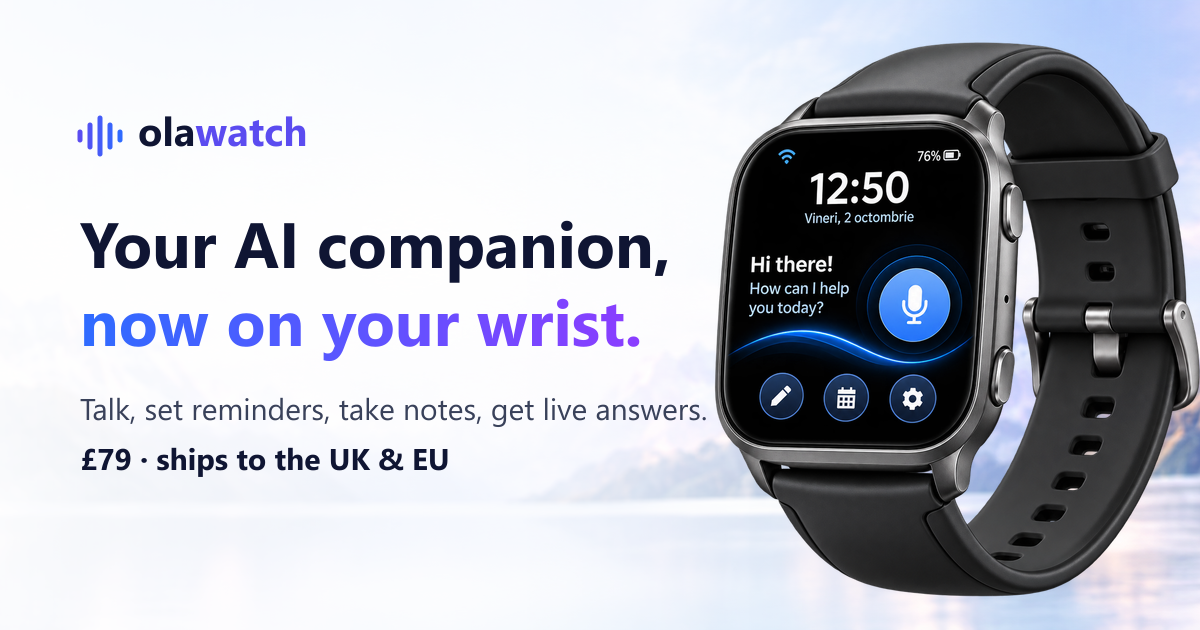
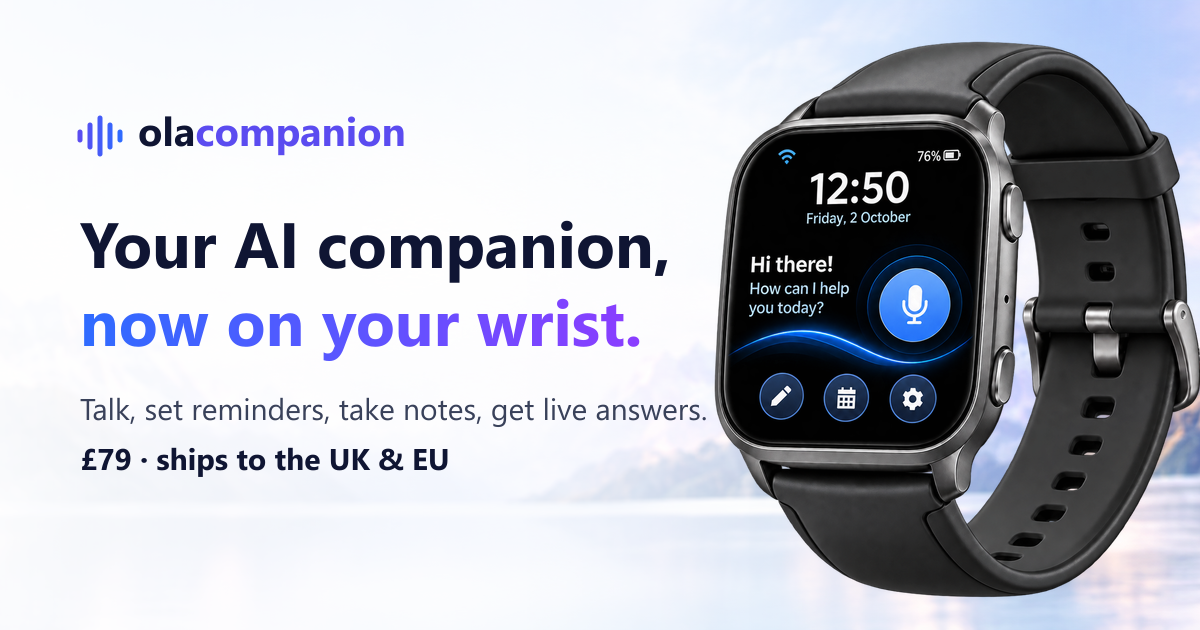
Site: rename to olacompanion (olacompanion.com), automatic currency, mobile layout fixes
- olawatch -> olacompanion everywhere, domain www/app.olacompanion.com, new share image
- Currency picked automatically (GBP in the UK, EUR elsewhere); the £/€ toggle is removed
- Hero title sized to fit two lines on phones; balanced wrapping for headings
- Mobile menu overlays the page; legal pages get a left drawer on phones
- "No app to install" becomes a round blue badge next to the watch; equal-width hero buttons
- Larger watch in the "Wear It" step on phones

diff --git a/site/src/lib/currency.ts b/site/src/lib/currency.ts
@@ -1,77 +1,44 @@
-// Client-side currency: GBP in the UK, EUR in the rest of Europe (by time zone, then browser language). Shared by the price islands.
+// Client-side currency, chosen automatically (there is no switch): GBP for visitors in the UK, EUR for
+// everyone else. By the device's time zone, then the browser language's region. Shared by the price islands.
 export type Cur = "GBP" | "EUR";
 
-const KEY = "buddyai.currency";
-const EU_REGIONS = new Set(
-  "AT BE BG HR CY CZ DK EE FI FR DE GR HU IE IT LV LT LU MT NL PL PT RO SK SI ES SE".split(" "),
-);
-const EU_LANGS = new Set("de fr it es nl fi el sv da pl cs sk sl hu ro bg hr et lv lt mt ga lb".split(" "));
+// The UK and the Crown dependencies pay in pounds.
+const UK_ZONES = new Set("Europe/London Europe/Belfast Europe/Isle_of_Man Europe/Jersey Europe/Guernsey GB GB-Eire".split(" "));
 
-// Where the visitor is, from the device's time zone: the UK (and the Crown dependencies) pay in pounds,
-// the rest of Europe in euros. EU territories outside the "Europe/" zones are listed too.
-const UK_ZONES = new Set("Europe/London Europe/Belfast Europe/Isle_of_Man Europe/Jersey Europe/Guernsey GB".split(" "));
-const EUR_ZONES_OUTSIDE_EUROPE = new Set(
-  "Atlantic/Canary Atlantic/Madeira Atlantic/Azores Africa/Ceuta Asia/Nicosia Asia/Famagusta".split(" "),
-);
-
-/** GBP in the UK, EUR anywhere else in Europe, null outside Europe (then the browser language decides). */
+/** GBP in a UK time zone, EUR in any other, null when the time zone is unknown. */
 function detectZone(): Cur | null {
   try {
     const tz = Intl.DateTimeFormat().resolvedOptions().timeZone || "";
-    if (UK_ZONES.has(tz)) return "GBP";
-    if (tz.startsWith("Europe/") || EUR_ZONES_OUTSIDE_EUROPE.has(tz)) return "EUR";
+    if (!tz) return null;
+    return UK_ZONES.has(tz) ? "GBP" : "EUR";
   } catch {
-    /* Intl unavailable */
+    return null; /* Intl unavailable */
   }
-  return null;
 }
 
-function detect(): Cur | null {
-  return detectZone() ?? detectLanguage();
-}
-
-function detectLanguage(): Cur | null {
+/** GBP when the browser language is British English (en-GB), else EUR. */
+function detectLanguage(): Cur {
   try {
     const tag = (navigator.languages?.[0] || navigator.language || "").trim();
-    if (!tag) return null;
-    const parts = tag.split(/[-_]/);
-    const lang = parts[0].toLowerCase();
-    const region = parts.slice(1).find((p) => /^[A-Za-z]{2}$/.test(p))?.toUpperCase();
-    if (region) return EU_REGIONS.has(region) ? "EUR" : null;
-    return EU_LANGS.has(lang) ? "EUR" : null;
+    const region = tag.split(/[-_]/).slice(1).find((p) => /^[A-Za-z]{2}$/.test(p))?.toUpperCase();
+    return region === "GB" ? "GBP" : "EUR";
   } catch {
-    return null;
+    return "EUR";
   }
 }
 
-export function getCurrency(fallback: Cur = "GBP"): Cur {
-  try {
-    const saved = localStorage.getItem(KEY);
-    if (saved === "GBP" || saved === "EUR") return saved;
-  } catch {
-    /* storage unavailable */
-  }
-  return detect() ?? fallback;
+let cached: Cur | null = null;
+
+export function getCurrency(): Cur {
+  return (cached ??= detectZone() ?? detectLanguage());
 }
 
-export function setCurrency(c: Cur): void {
-  try {
-    localStorage.setItem(KEY, c);
-  } catch {
-    /* storage unavailable: the choice lasts for this page only */
-  }
-  applyCurrency(c);
-}
-
-/** Update every price on the page and every toggle's pressed state. */
+/** Show every price on the page in the given currency. */
 export function applyCurrency(c: Cur): void {
   document.documentElement.dataset.currency = c;
   document.querySelectorAll<HTMLElement>("[data-money]").forEach((el) => {
     const v = c === "EUR" ? el.dataset.eur : el.dataset.gbp;
     if (v) el.textContent = v;
-  });
-  document.querySelectorAll<HTMLButtonElement>("[data-currency-btn]").forEach((b) => {
-    b.setAttribute("aria-pressed", String(b.dataset.currencyBtn === c));
   });
   document.dispatchEvent(new CustomEvent("buddyai:currency", { detail: c }));
 }

diff --git a/site/src/pages/llms.txt.ts b/site/src/pages/llms.txt.ts
@@ -7,7 +7,7 @@ export const GET: APIRoute = ({ site }) => {
   const u = (p: string) => new URL(p, site).href;
   const body = `# ${config.siteName}
 
-> olawatch is an AI smartwatch with a built-in voice assistant, sold by ${config.companyName} (${config.address}) to customers in the UK and the EU. Tap the mic on the watch, speak naturally, and the assistant answers out loud.
+> olacompanion is an AI smartwatch with a built-in voice assistant, sold by ${config.companyName} (${config.address}) to customers in the UK and the EU. Tap the mic on the watch, speak naturally, and the assistant answers out loud.
 
 ## What it does
 - Natural voice conversation with an AI assistant; tap to talk, tap again to interrupt.
@@ -26,7 +26,7 @@ export const GET: APIRoute = ({ site }) => {
 - Needs Wi-Fi with internet for the assistant and for reminder alerts (sent by the ola servers). Offline, the clock and already loaded notes and reminders stay visible.
 
 ## Price
-- olawatch: ${formatPrice(prices.watch.GBP, "GBP")} / ${formatPrice(prices.watch.EUR, "EUR")}, one-off, VAT included.
+- olacompanion: ${formatPrice(prices.watch.GBP, "GBP")} / ${formatPrice(prices.watch.EUR, "EUR")}, one-off, VAT included.
 - olacare (the subscription that powers the assistant): ${formatPrice(prices.care.GBP, "GBP")} / ${formatPrice(prices.care.EUR, "EUR")} a month after ${prices.trialMonths} months free (the free period starts at purchase). Cancel anytime from the account ("Manage billing").
 - olacare includes a monthly fair-use allowance of AI usage (not unlimited), shown in the account as a percentage; at the limit the assistant pauses until the reset, or one-off extra usage can be bought.
 - 14-day right to cancel; UK statutory rights and the EU 2-year legal guarantee.

diff --git a/site/src/config.ts b/site/src/config.ts
@@ -6,7 +6,7 @@
 export type Currency = "GBP" | "EUR";
 
 // Prices are set in pounds; euro prices are converted at GBP_TO_EUR and rounded to clean figures.
-// Must match the Stripe prices (products "olawatch" and "olacare", GBP + EUR, trial length):
+// Must match the Stripe prices (products "olacompanion" and "olacare", GBP + EUR, trial length):
 // STRIPE_PRICE_WATCH_GBP/EUR and STRIPE_PRICE_CARE_GBP/EUR in server/.env. After changing a price or
 // the rate, create Stripe prices with the new amounts.
 // Consumer prices must include VAT: configure the Stripe prices as tax-inclusive.
@@ -29,7 +29,7 @@ export const prices = {
 } as const;
 
 export const config = {
-  siteName: "olawatch",
+  siteName: "olacompanion",
   tagline: "Your AI companion, now on your wrist.",
 
   // Company details shown in the footer, contact page and legal pages.
@@ -38,10 +38,10 @@ export const config = {
   // Company and VAT numbers. Empty = the line is not shown.
   companyNumber: "",
   vatNumber: "",
-  supportEmail: "ola@olawatch.ai",
+  supportEmail: "ola@olacompanion.com",
 
   // The customer web app (sign in, "Add watch", notes, reminders, ola Care).
-  appUrl: "https://app.olawatch.ai",
+  appUrl: "https://app.olacompanion.com",
 
   // Returns: only claim free returns when this is true.
   freeReturns: false,

diff --git a/site/src/lib/brand.ts b/site/src/lib/brand.ts
@@ -1,4 +1,4 @@
-// The product names as one word. In markup (brandHtml): "olawatch" with "watch" in the accent colour,
+// The product names as one word. In markup (brandHtml): "olacompanion" with "companion" in the accent colour,
 // plus the logo's leaf above the "a" when it is set bold; "olacare" bold, in the text colour.
 // brandText() is the plain form for titles, alt texts and meta data.
 export type BrandName = "watch" | "care";
@@ -13,9 +13,9 @@ export function brandHtml(name: BrandName, opts: { bold?: boolean } = {}): strin
     return '<strong class="whitespace-nowrap font-bold">olacare</strong>';
   }
   const ola = opts.bold ? `ol<span class="relative">a${LEAF}</span>` : "ola";
-  return `<span class="whitespace-nowrap${opts.bold ? " font-bold" : ""}">${ola}<span class="text-accent">watch</span></span>`;
+  return `<span class="whitespace-nowrap${opts.bold ? " font-bold" : ""}">${ola}<span class="text-accent">companion</span></span>`;
 }
 
 export function brandText(name: BrandName): string {
-  return `ola${name}`;
+  return name === "watch" ? "olacompanion" : "olacare";
 }

diff --git a/site/src/data/faq.ts b/site/src/data/faq.ts
@@ -38,7 +38,7 @@ export const faqGroups: { title: string; items: Faq[] }[] = [
         a: "The clock keeps time, and notes and reminders the watch has already loaded stay on screen. Everything that needs the ola servers waits for a connection: talking to the assistant, opening a note's full text, marking a reminder done, and reminder alerts — reminders are sent to the watch by our servers when they are due, so the watch has to be online to alert you. If it was offline, reminders from the last 24 hours arrive when it reconnects.",
       },
       {
-        q: "What doesn't olawatch do?",
+        q: "What doesn't olacompanion do?",
         a: "It has no GPS, no SIM card or mobile connection, and it can't make or take calls. It doesn't track steps, heart rate, sleep or any other health data. It doesn't sync with Google, Outlook or other calendars: reminders live in your ola account.",
       },
       {

diff --git a/site/src/styles/global.css b/site/src/styles/global.css
@@ -62,6 +62,8 @@ h1,
 h2,
 h3 {
   font-family: var(--font-display);
+  /* Wrapped titles get lines of even length: no lone word on the last line, no big gap at the right. */
+  text-wrap: balance;
 }
 
 :focus-visible {
@@ -88,6 +90,12 @@ h3 {
     border: 1px solid var(--border);
     border-radius: 0.875rem;
     box-shadow: 0 1px 2px rgba(15, 21, 51, 0.04), 0 8px 24px rgba(40, 50, 120, 0.06);
+  }
+  /* Home hero title on phones: sized to the screen so each of its two lines fits on one line
+     ("Your AI companion," is the longer one: 9.96em in Montserrat 800, tracking-tight; --hero-em adds a margin). From sm up, sm:text-5xl takes over. */
+  .hero-title {
+    --hero-em: 10.2;
+    font-size: min(2.25rem, calc((100vw - 2rem) / var(--hero-em)));
   }
   .text-gradient {
     background: linear-gradient(90deg, #2f6bff 0%, #5b4cf0 45%, #8b3dff 100%);
